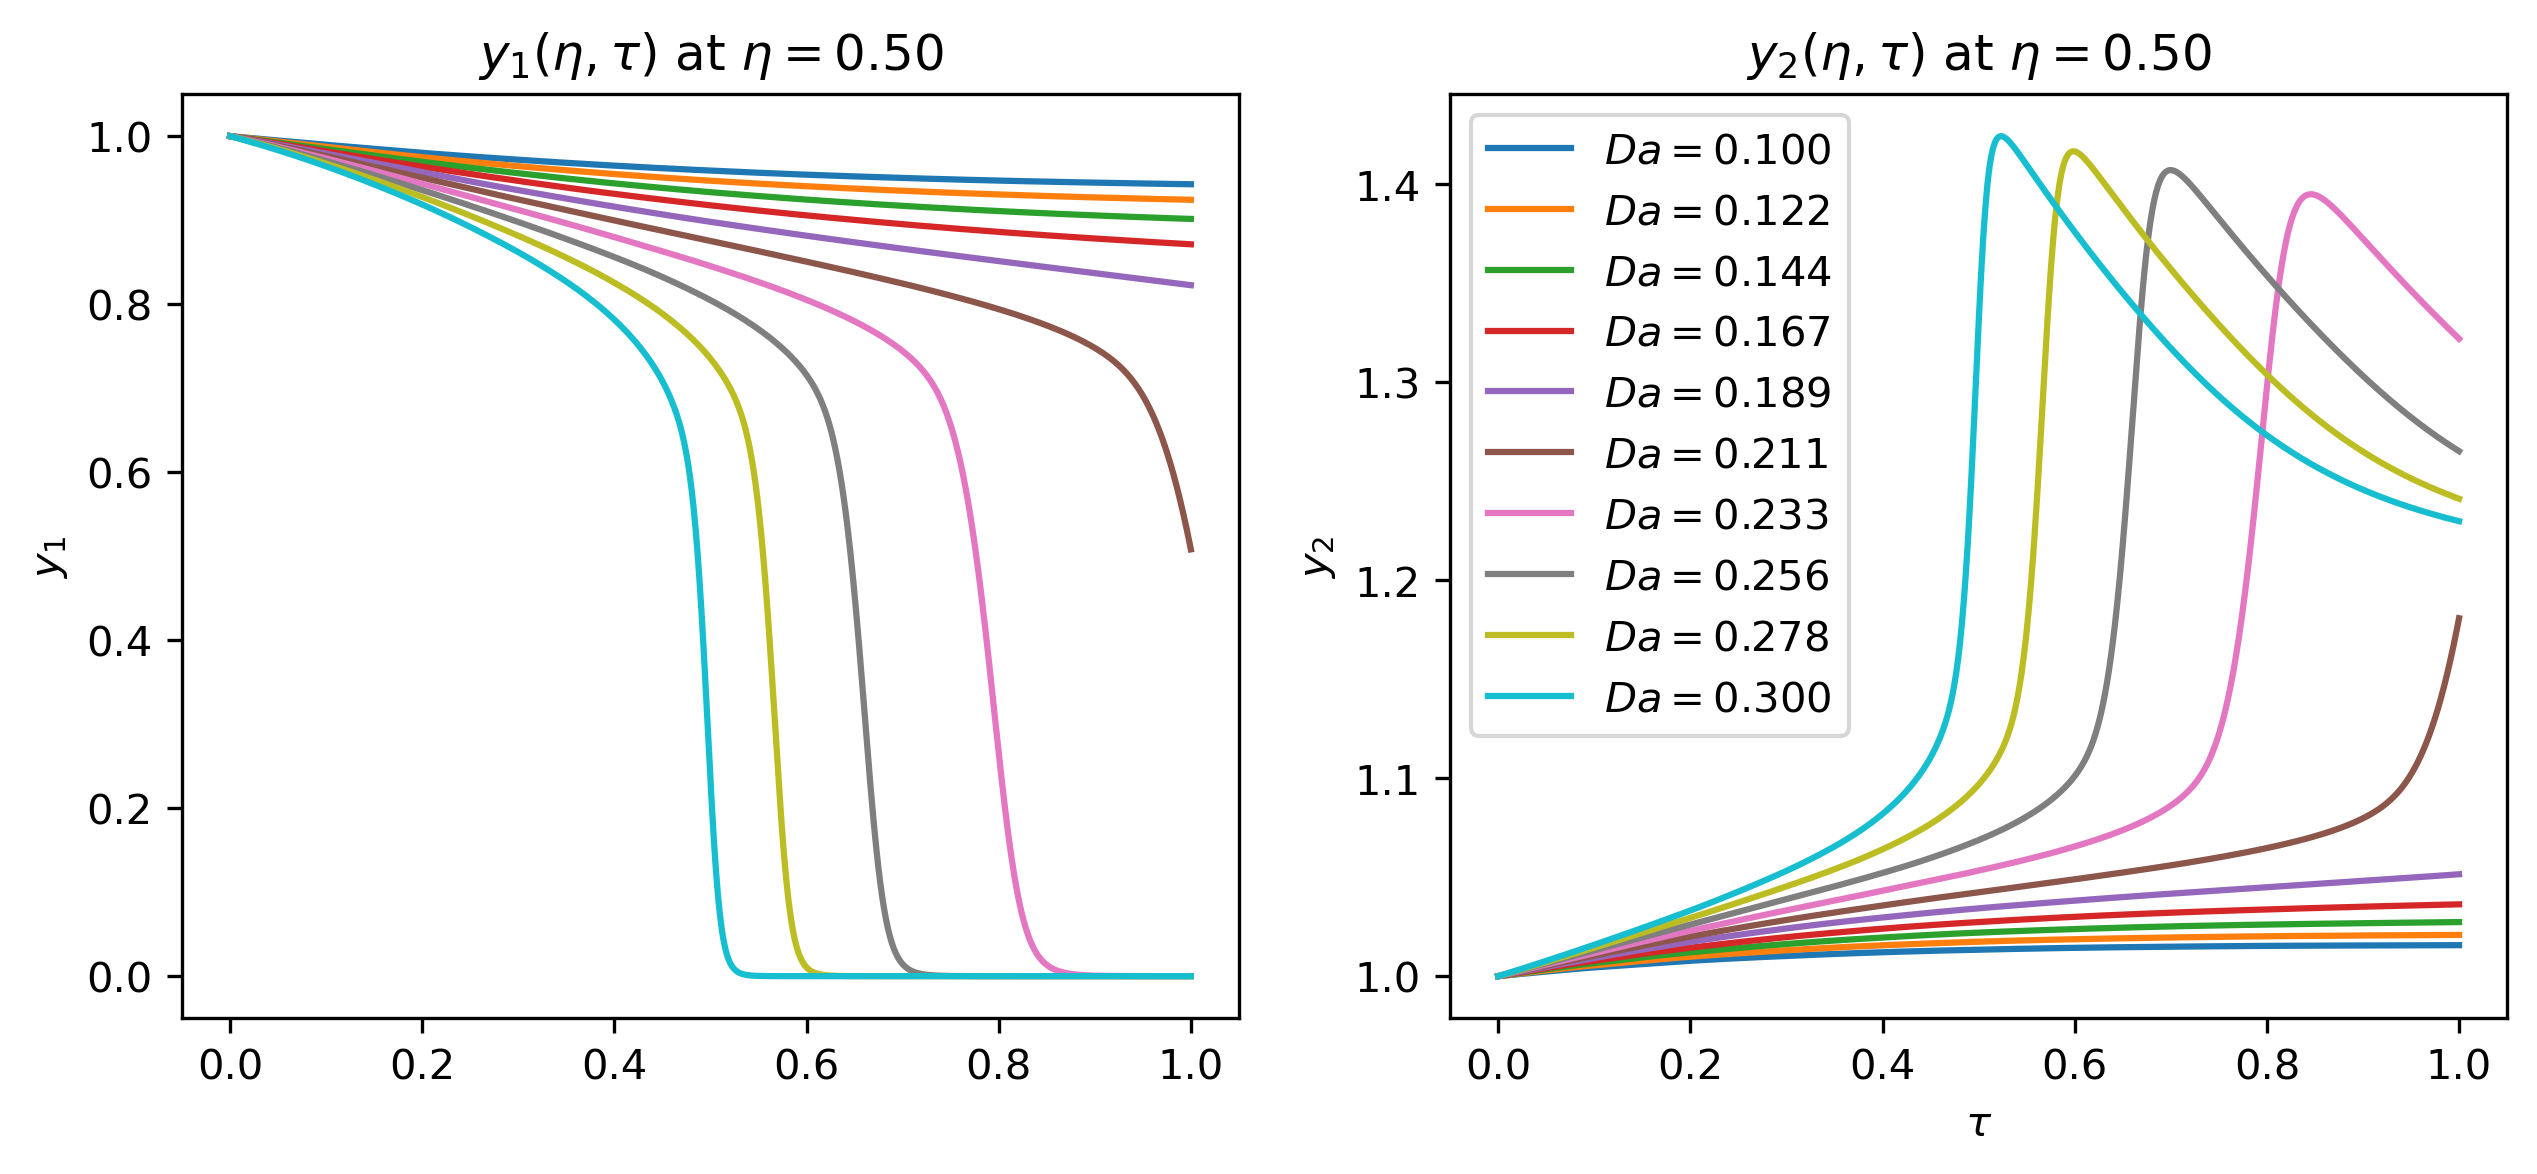
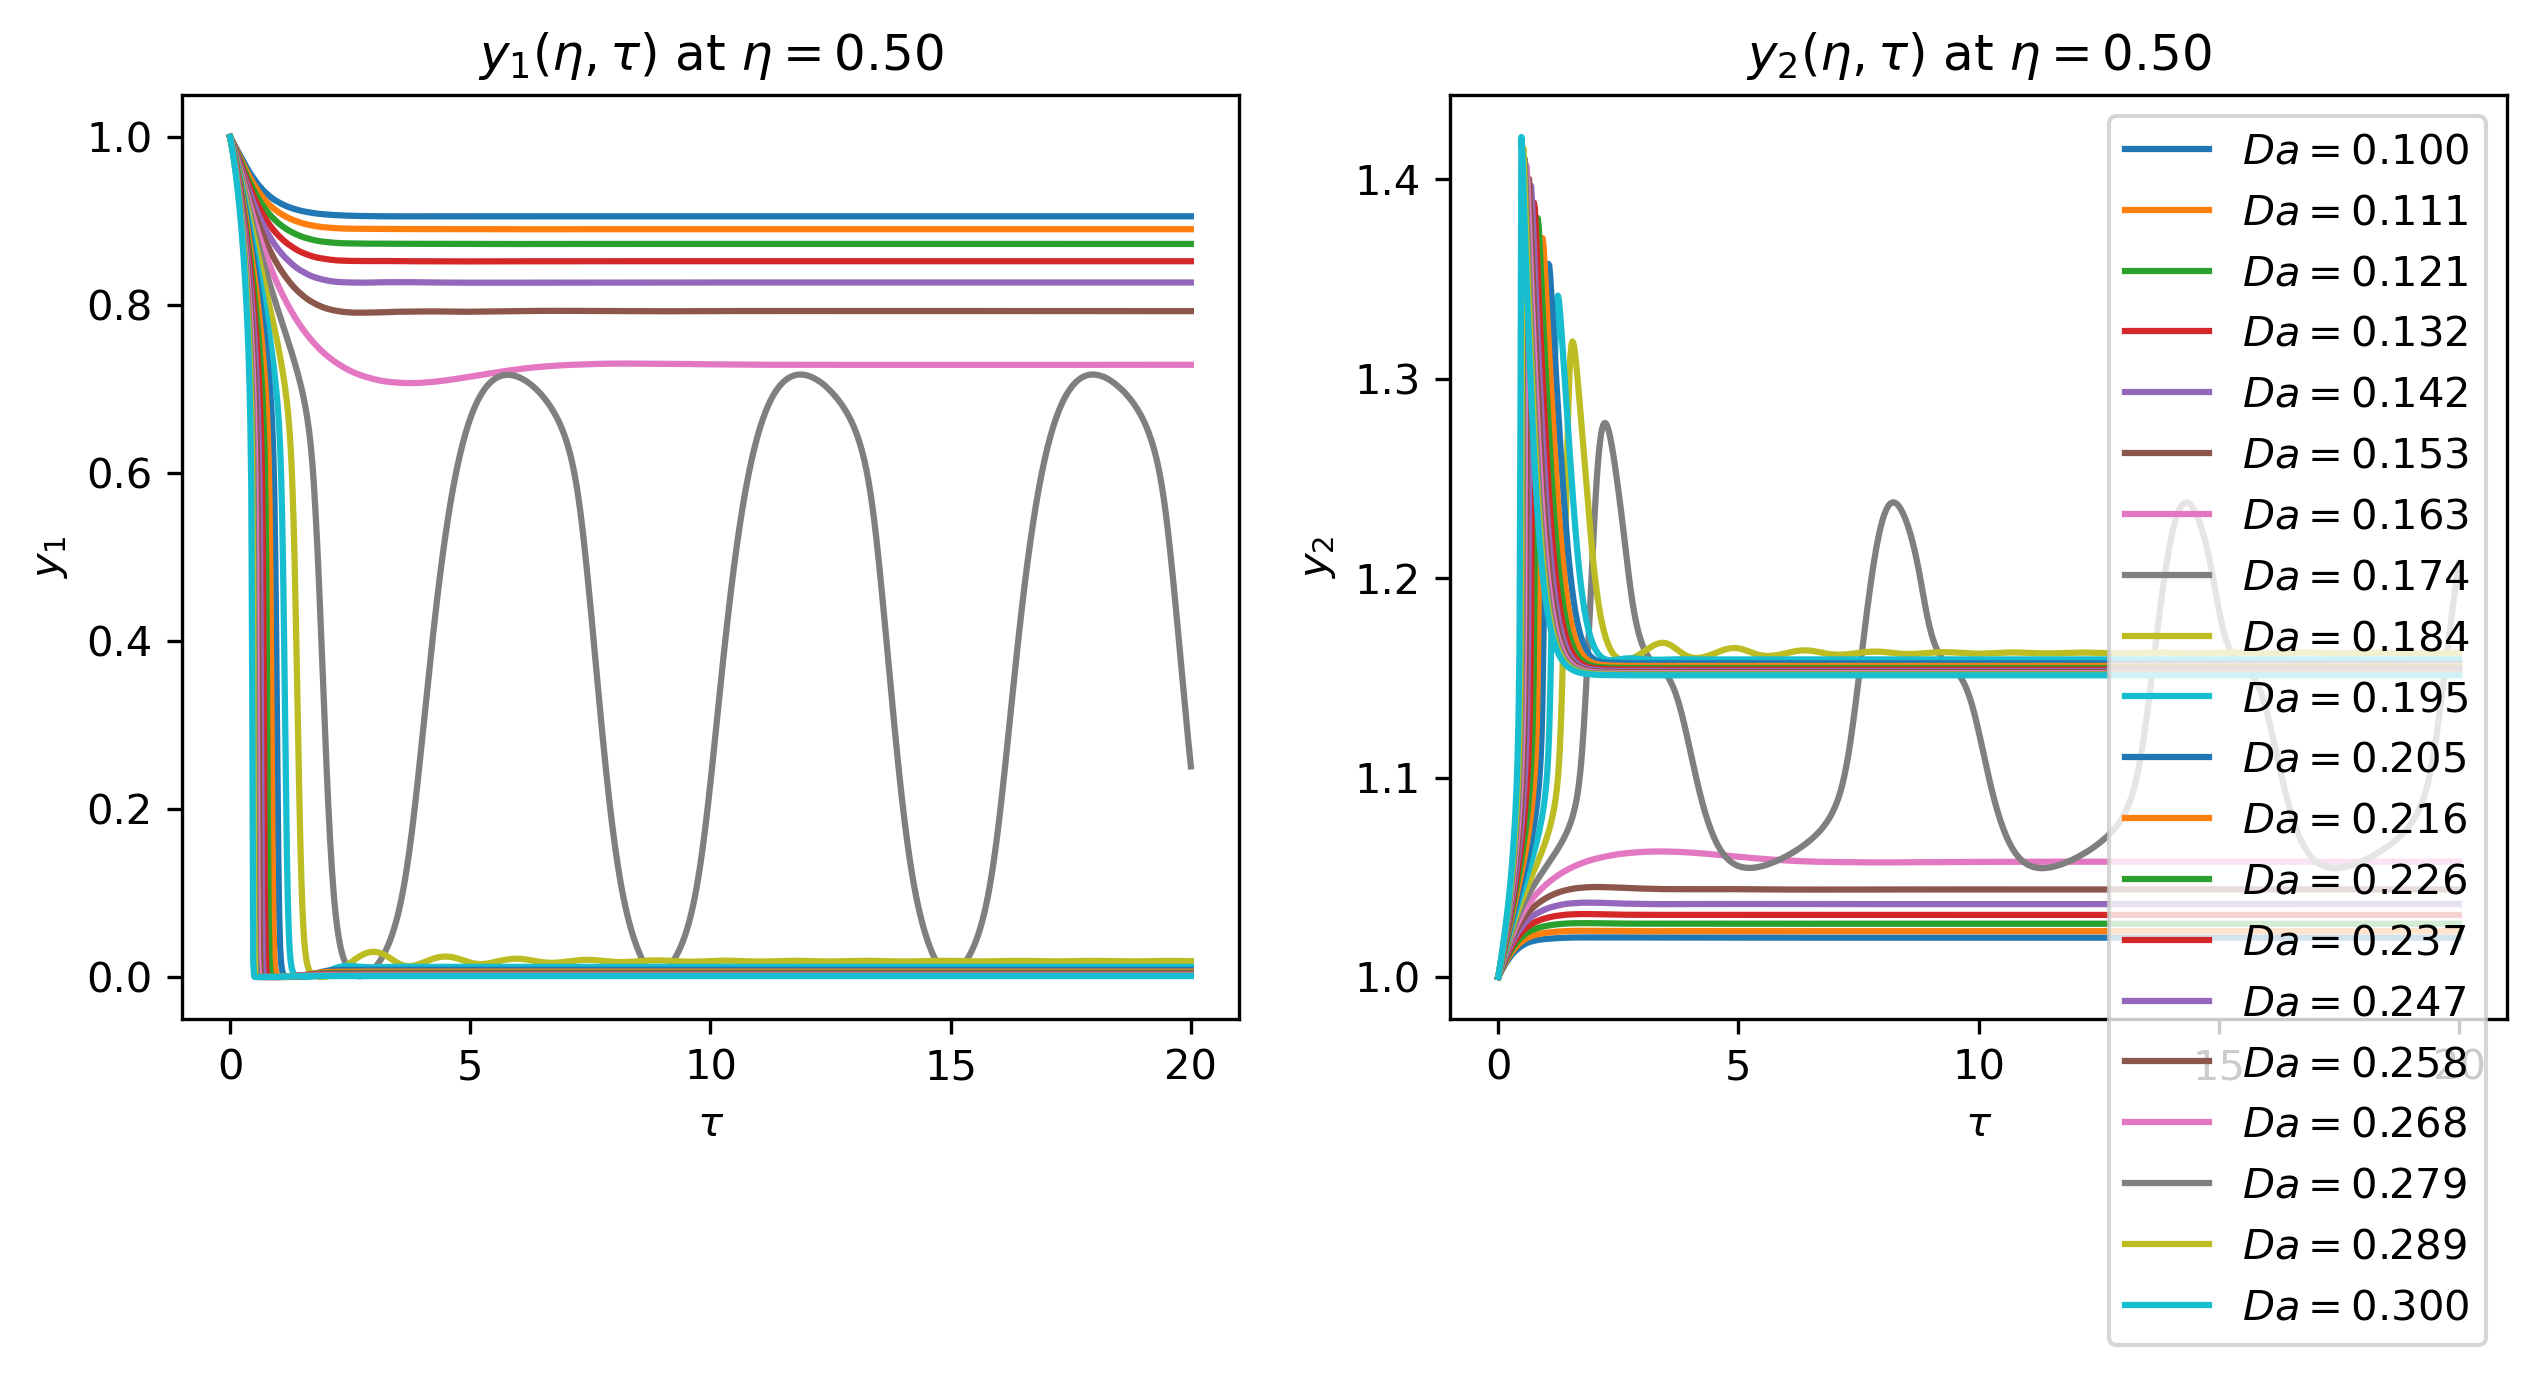
Investigating dynamical behaviour for lager timescales + fixed minor bugs

diff --git a/Transient behaviour/transient_behaviour.py b/Transient behaviour/transient_behaviour.py
@@ -10,11 +10,11 @@ gam = 25
 B = 0.5
 beta = 2.5
 yw = 1
-tau_final = 1
+tau_final = 20
 
 n = 250
 eta = np.linspace(0, 1, n)
-dx = eta[1] - eta[0]
+deta = eta[1] - eta[0]
 
 def transient_sys(tau, y, Da):
 
@@ -30,17 +30,24 @@ def transient_sys(tau, y, Da):
     y1 = np.zeros(n)
     y2 = np.zeros(n)
 
-    #definenlet boundary conditions
-    y1[0] = 1
-    y2[0] = 1
-
     #define kinterior dynamic states
     y1[1:n-1] = y1_dyn
     y2[1:n-1] = y2_dyn
 
+    #define inlet boundary conditions
+    y1[0] = (
+        (Pem*2*deta + 4*y1[1] - y1[2])/
+        (3 + Pem*2*deta)
+    )
+    y2[0] = (
+        (Pem*2*deta + 4*y2[1] - y2[2])/
+        (3 + Peh*2*deta)
+    )
+
     #define outlet boundary conditions
     y1[-1] = y1[-2]
     y2[-1] = y2[-2]
+
     #define rhs vector
     dydtau = np.zeros(2*(n-2))
 
@@ -54,18 +61,18 @@ def transient_sys(tau, y, Da):
         dy1dtau[i-1] = (
             (1/Pem)
             * (y1[i+1] - 2*y1[i] + y1[i-1])
-            / dx**2
+            / deta**2
             - (y1[i+1] - y1[i-1])
-            / (2*dx)
+            / (2*deta)
             - Da*y1[i]*np.exp(gam - gam/y2[i])
         )
 
         dy2dtau[i-1] = (
             (1/Peh)
             * (y2[i+1] - 2*y2[i] + y2[i-1])
-            / dx**2
+            / deta**2
             - (y2[i+1] - y2[i-1])
-            / (2*dx)
+            / (2*deta)
             - beta*(y2[i] - yw)
             + B*Da*y1[i]*np.exp(gam - gam/y2[i])
         )
@@ -82,7 +89,7 @@ y0 = np.concatenate([
 ])
 
 #initialize Da_lst and solution lst
-Da_lst= np.linspace(0.1,0.3,10)
+Da_lst= np.linspace(0.1,0.3,20)
 transient_solutions = []
 
 #define evaluation time 
@@ -132,7 +139,7 @@ for j in range(len(Da_lst)):
 
     axes[0].set_title(rf"$y_1(\eta,\tau)$ at $\eta={eta[i]:.2f}$")
     axes[0].set_ylabel(r"$y_1$")
-    axes[1].set_xlabel(r"$\tau$")
+    axes[0].set_xlabel(r"$\tau$")
 
     #plotting for y2
     axes[1].plot(
